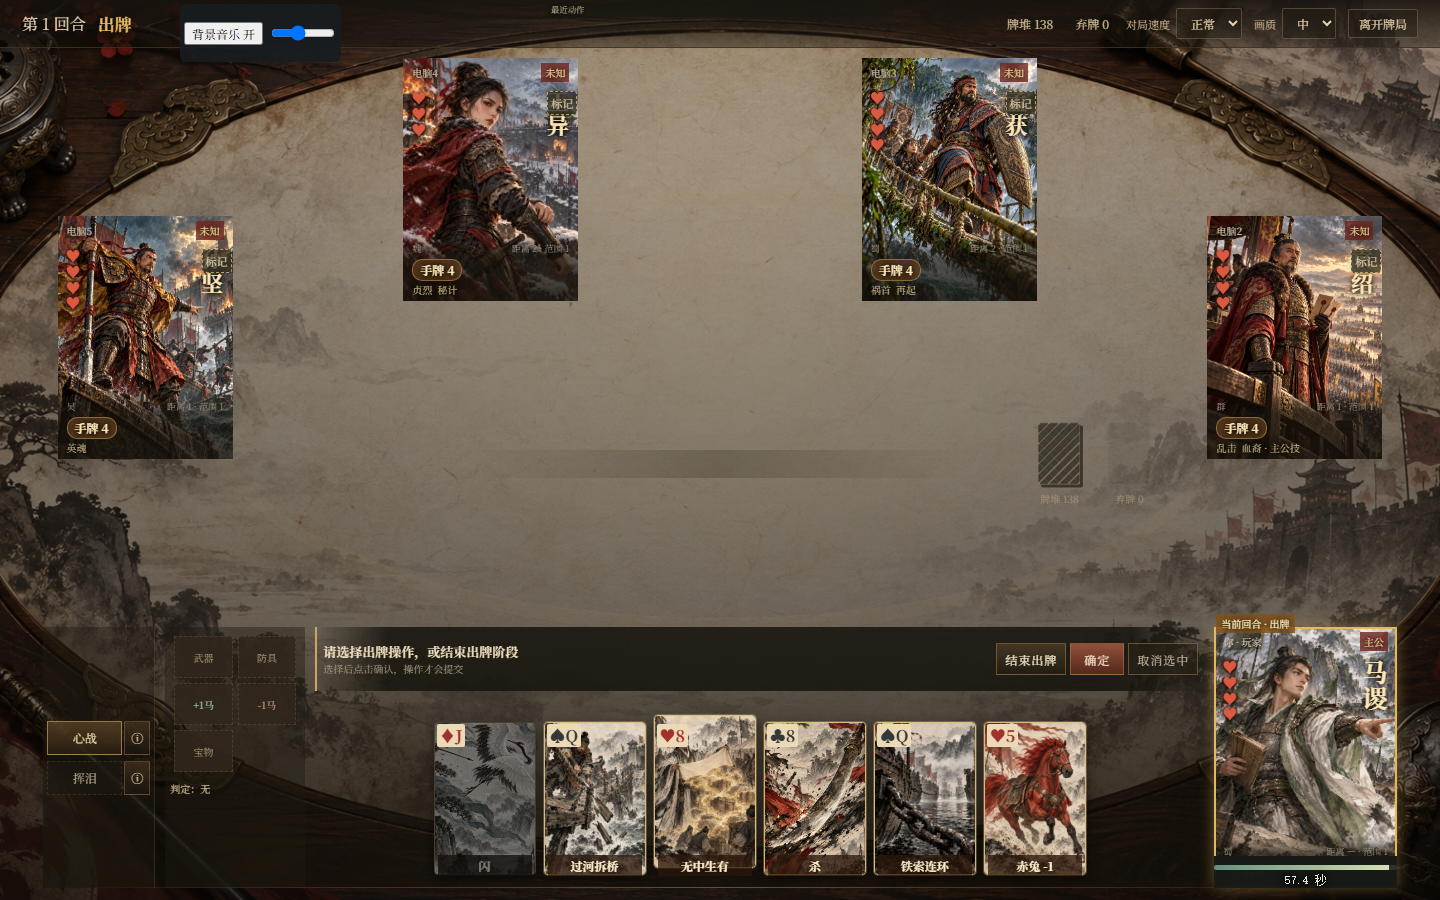
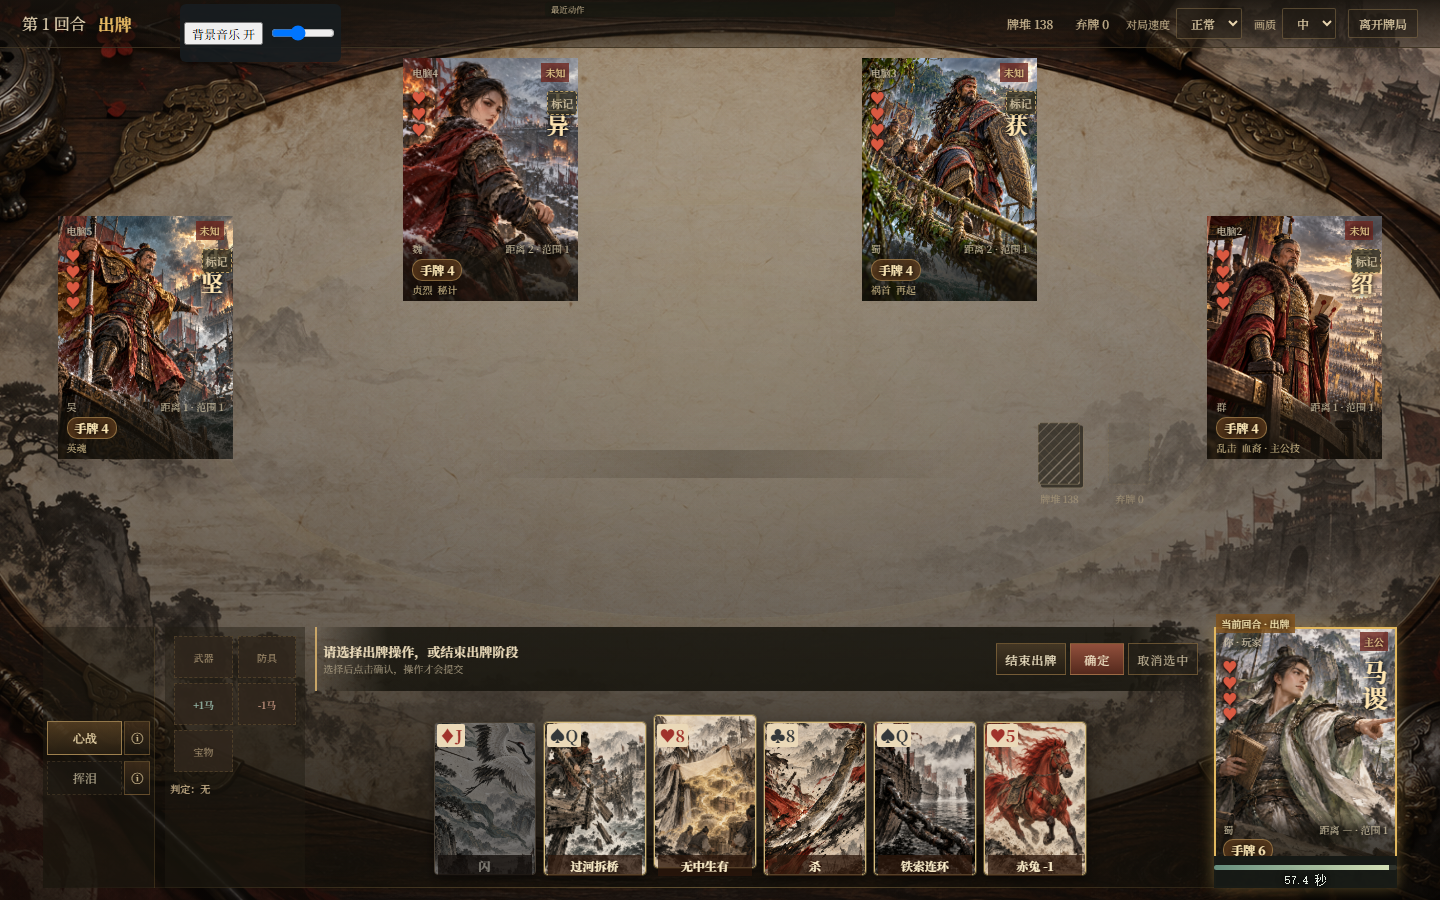
T21 frontend layout interaction and visual refactor

diff --git a/web/src/table.css b/web/src/table.css
@@ -67,12 +67,32 @@
 
   /* Response timer sits inside its own portrait so it can never cover a neighbouring seat. */
   .game-board .player-panel .seat-timer { top: auto; bottom: 0; left: 0; width: 100%; background: #1f1810f0; }
+  /* A compact response strip; the seat caption lifts above it instead of being covered. */
+  .game-board .player-panel .responder-state { padding: 3px 5px; }
+  .game-board .player-panel .response-description { flex-direction: row; justify-content: center; gap: 6px; font-size: 11px; }
+  .game-board .player-self .response-description { flex-direction: column; gap: 1px; }
+  .game-board .player-panel:has(.seat-timer) .seat-caption { bottom: var(--timer-h, 44px); }
+  .game-board .player-panel:not(:has(.responder-state)) { --timer-h: 22px; }
+
+  /* Public reveals (judgment, pindian, discards, Fire Attack) read at table distance without covering seats. */
+  .game-board .public-resolution-card { width: clamp(72px, 5.6vw, 96px); }
+  .game-board .public-resolution-card img { height: auto; aspect-ratio: 2 / 3; }
+  .game-board .action-cards { gap: 8px; }
+
+  /* 721–1100px: narrower local columns so the hand keeps room. */
+  @media (max-width: 1100px) {
+    .game-board .self-area, .game-board.eight-seats .self-area { left: 1.5%; right: 1.5%; grid-template-columns: 84px 112px minmax(0, 1fr) var(--local-w); gap: 6px; }
+    .game-board.eight-seats .player-panel.player-north-west { left: 21%; }
+    .game-board.eight-seats .player-panel.player-north-east { right: 21%; }
+    .game-board:not(.eight-seats) .player-panel.player-north-west { left: 24%; }
+    .game-board:not(.eight-seats) .player-panel.player-north-east { right: 24%; }
+  }
 }
 
 /* ───────────── Player panel information hierarchy ───────────── */
 .game-board .hp-row { font-size: 15px; }
 .game-board .player-heading strong { color: #cfc3aa; font-size: 10px; }
-.game-board .seat-facts { color: #9d9380; font-size: 9px; }
+.game-board .seat-facts { color: #c9bd9f; font-size: 10px; }
 .game-board .hand-count {
   padding: 1px 7px; font-size: 12px; font-weight: 700; color: #ffeab8;
   background: #5b3a1ccc; border: 1px solid #c9a56688; border-radius: 10px;

diff --git a/web/e2e/t21-visual.spec.ts b/web/e2e/t21-visual.spec.ts
@@ -55,7 +55,7 @@ async function noOverlap(page: Page) {
   expect(await page.evaluate(() => document.documentElement.scrollWidth <= innerWidth)).toBe(true)
 }
 
-for (const count of [5, 8]) for (const [w, h] of [[1920, 1080], [1440, 900], [1366, 768]]) {
+for (const count of [5, 8]) for (const [w, h] of [[1920, 1080], [1440, 900], [1366, 768], [1024, 768]]) {
   test(`T21 table ${count} seats ${w}x${h}`, async ({ page }) => {
     await page.setViewportSize({ width: w, height: h })
     await fixture(page, count, `s.projection.waiting={key:'r',player_id:'p3',responding:true,thinking:false,remaining_ms:9000,total_ms:15000,required_definition_id:'basic.dodge',response_to:'basic.slash'}`)
